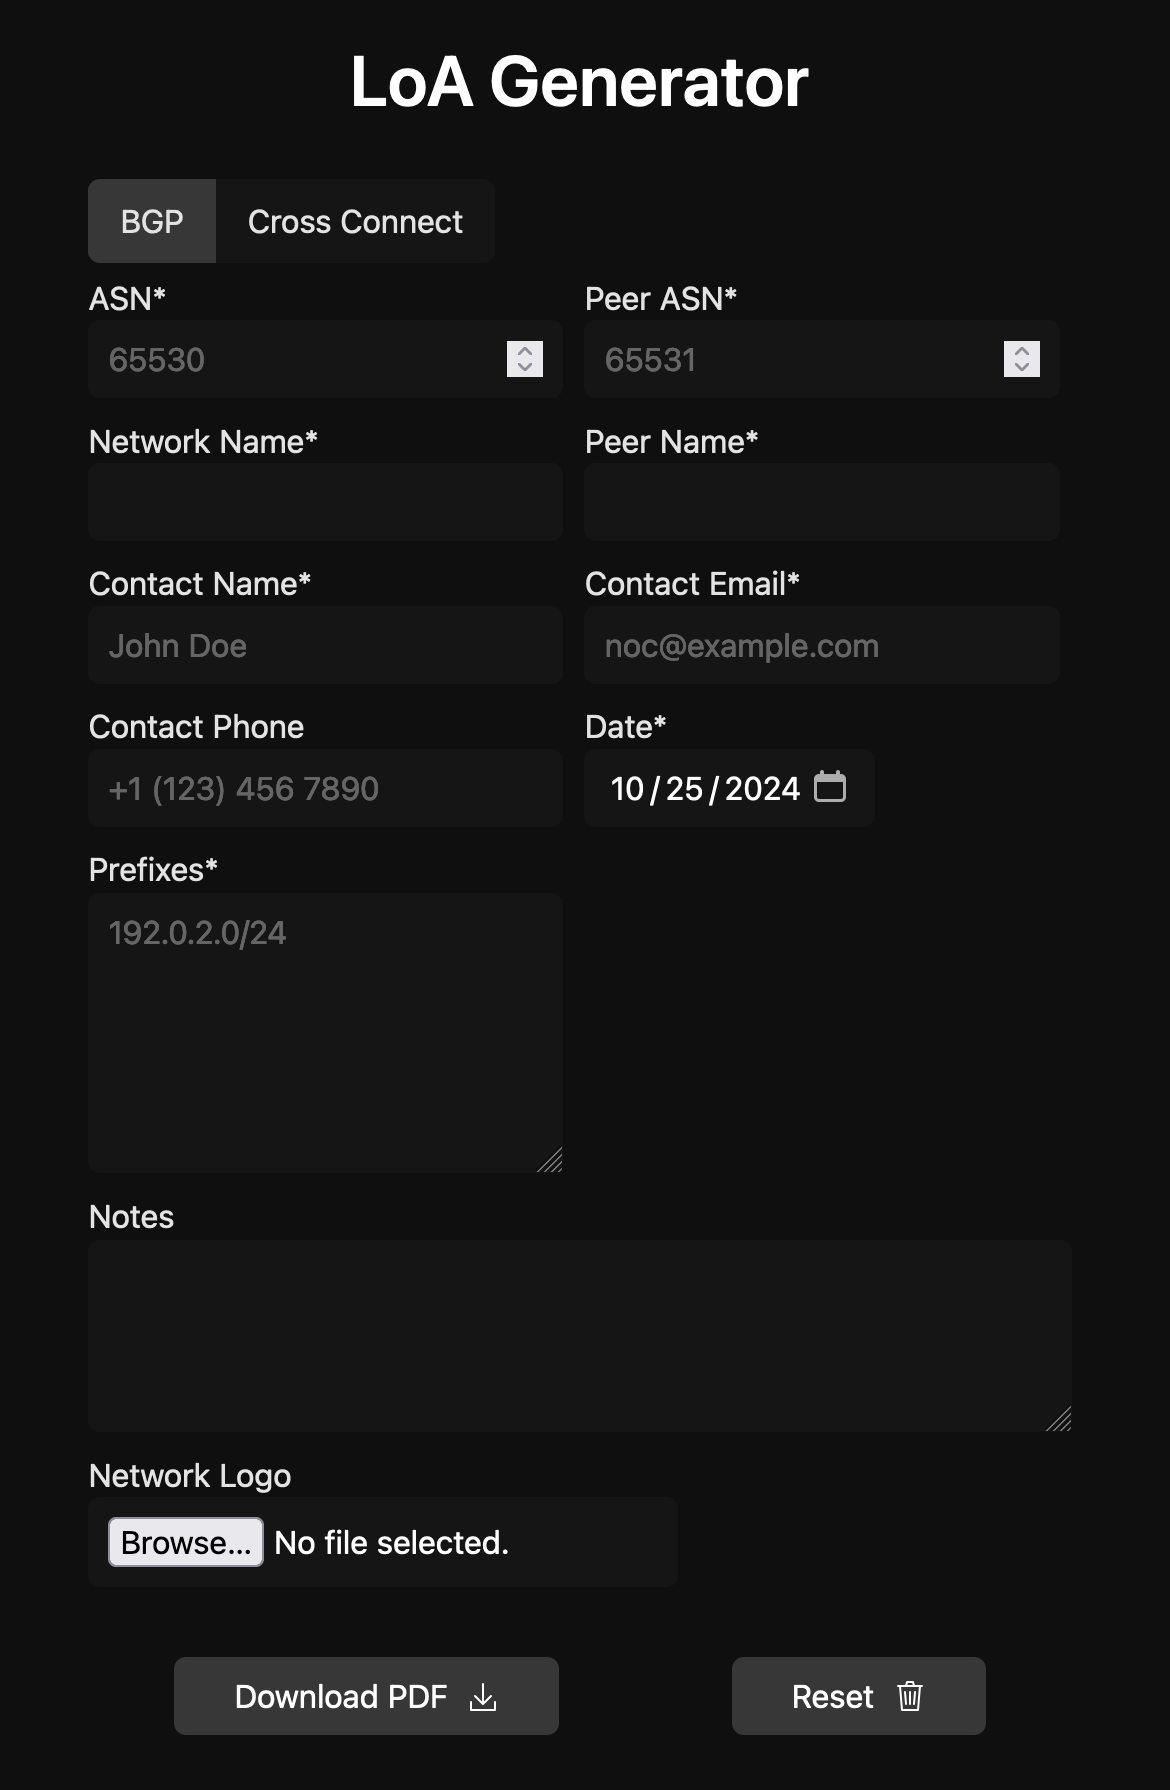
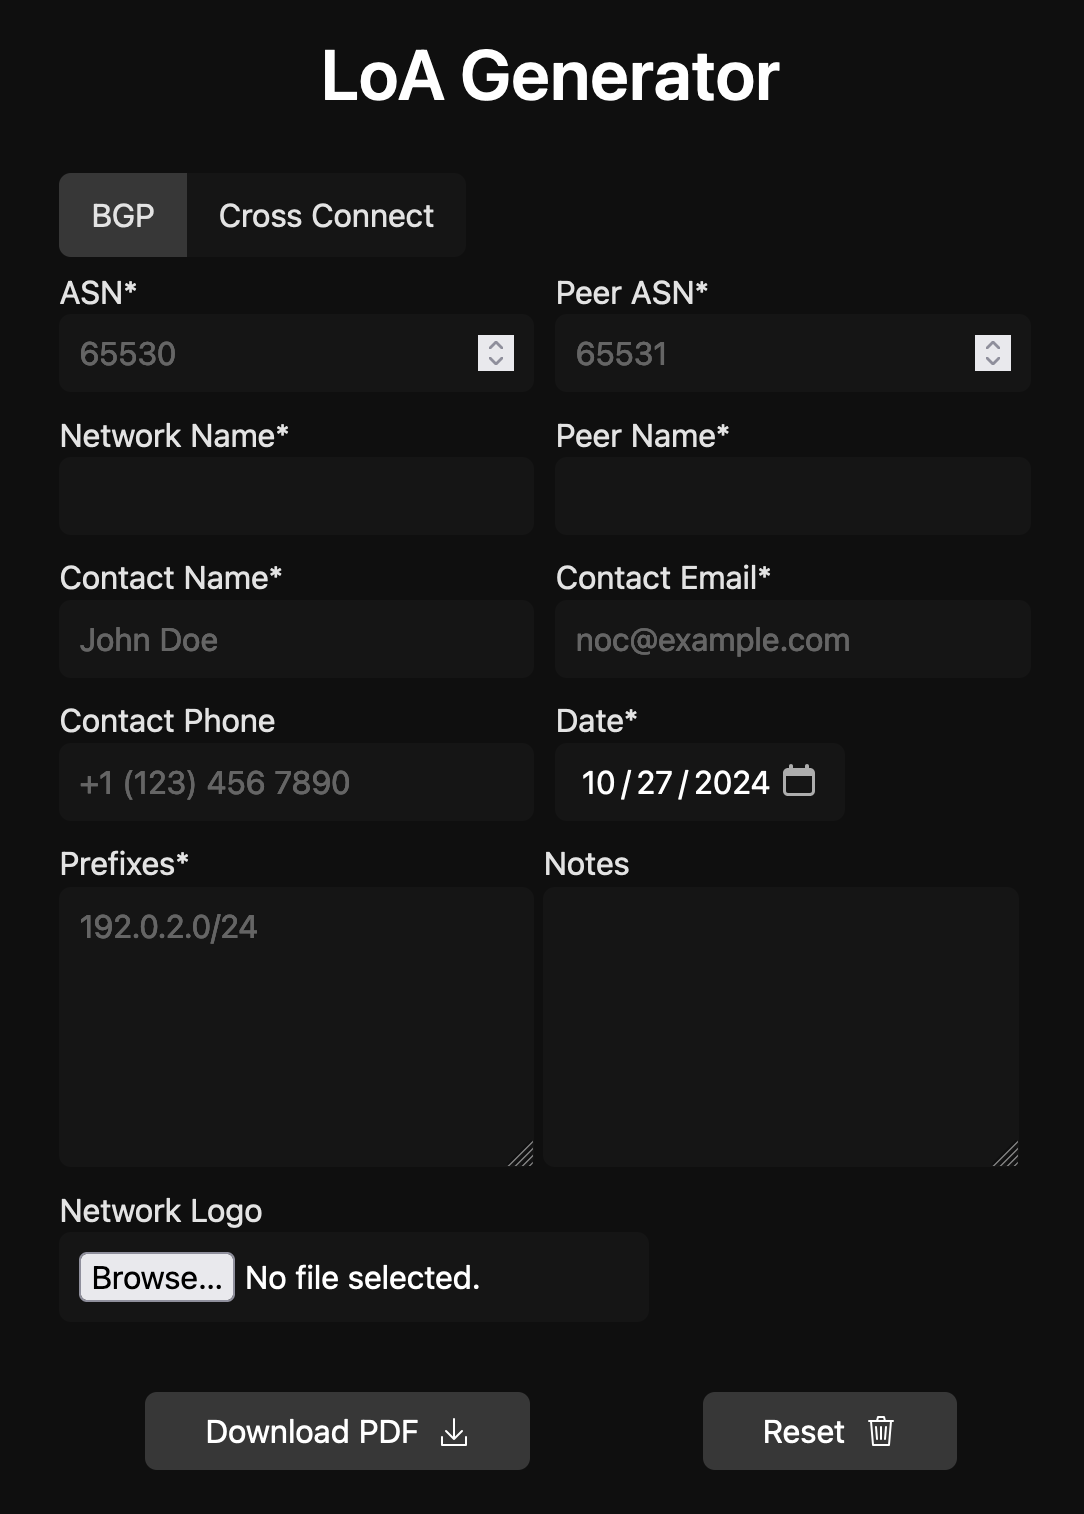
fix: move notes next to prefix box in BGP mode

diff --git a/src/routes/+page.svelte b/src/routes/+page.svelte
@@ -292,12 +292,17 @@ Media Type: ${args.xc.mediaType}
                 Prefixes*
                 <textarea bind:value={args.bgp.prefixes} placeholder="192.0.2.0/24" required></textarea>
             </label>
-        {/if}
 
-        <label class="wide">
-            Notes
-            <textarea rows="4" bind:value={args.notes}></textarea>
-        </label>
+            <label>
+                Notes
+                <textarea bind:value={args.notes}></textarea>
+            </label>
+        {:else}
+            <label class="wide">
+                Notes
+                <textarea rows="4" bind:value={args.notes}></textarea>
+            </label>
+        {/if}
 
         <br>
 
